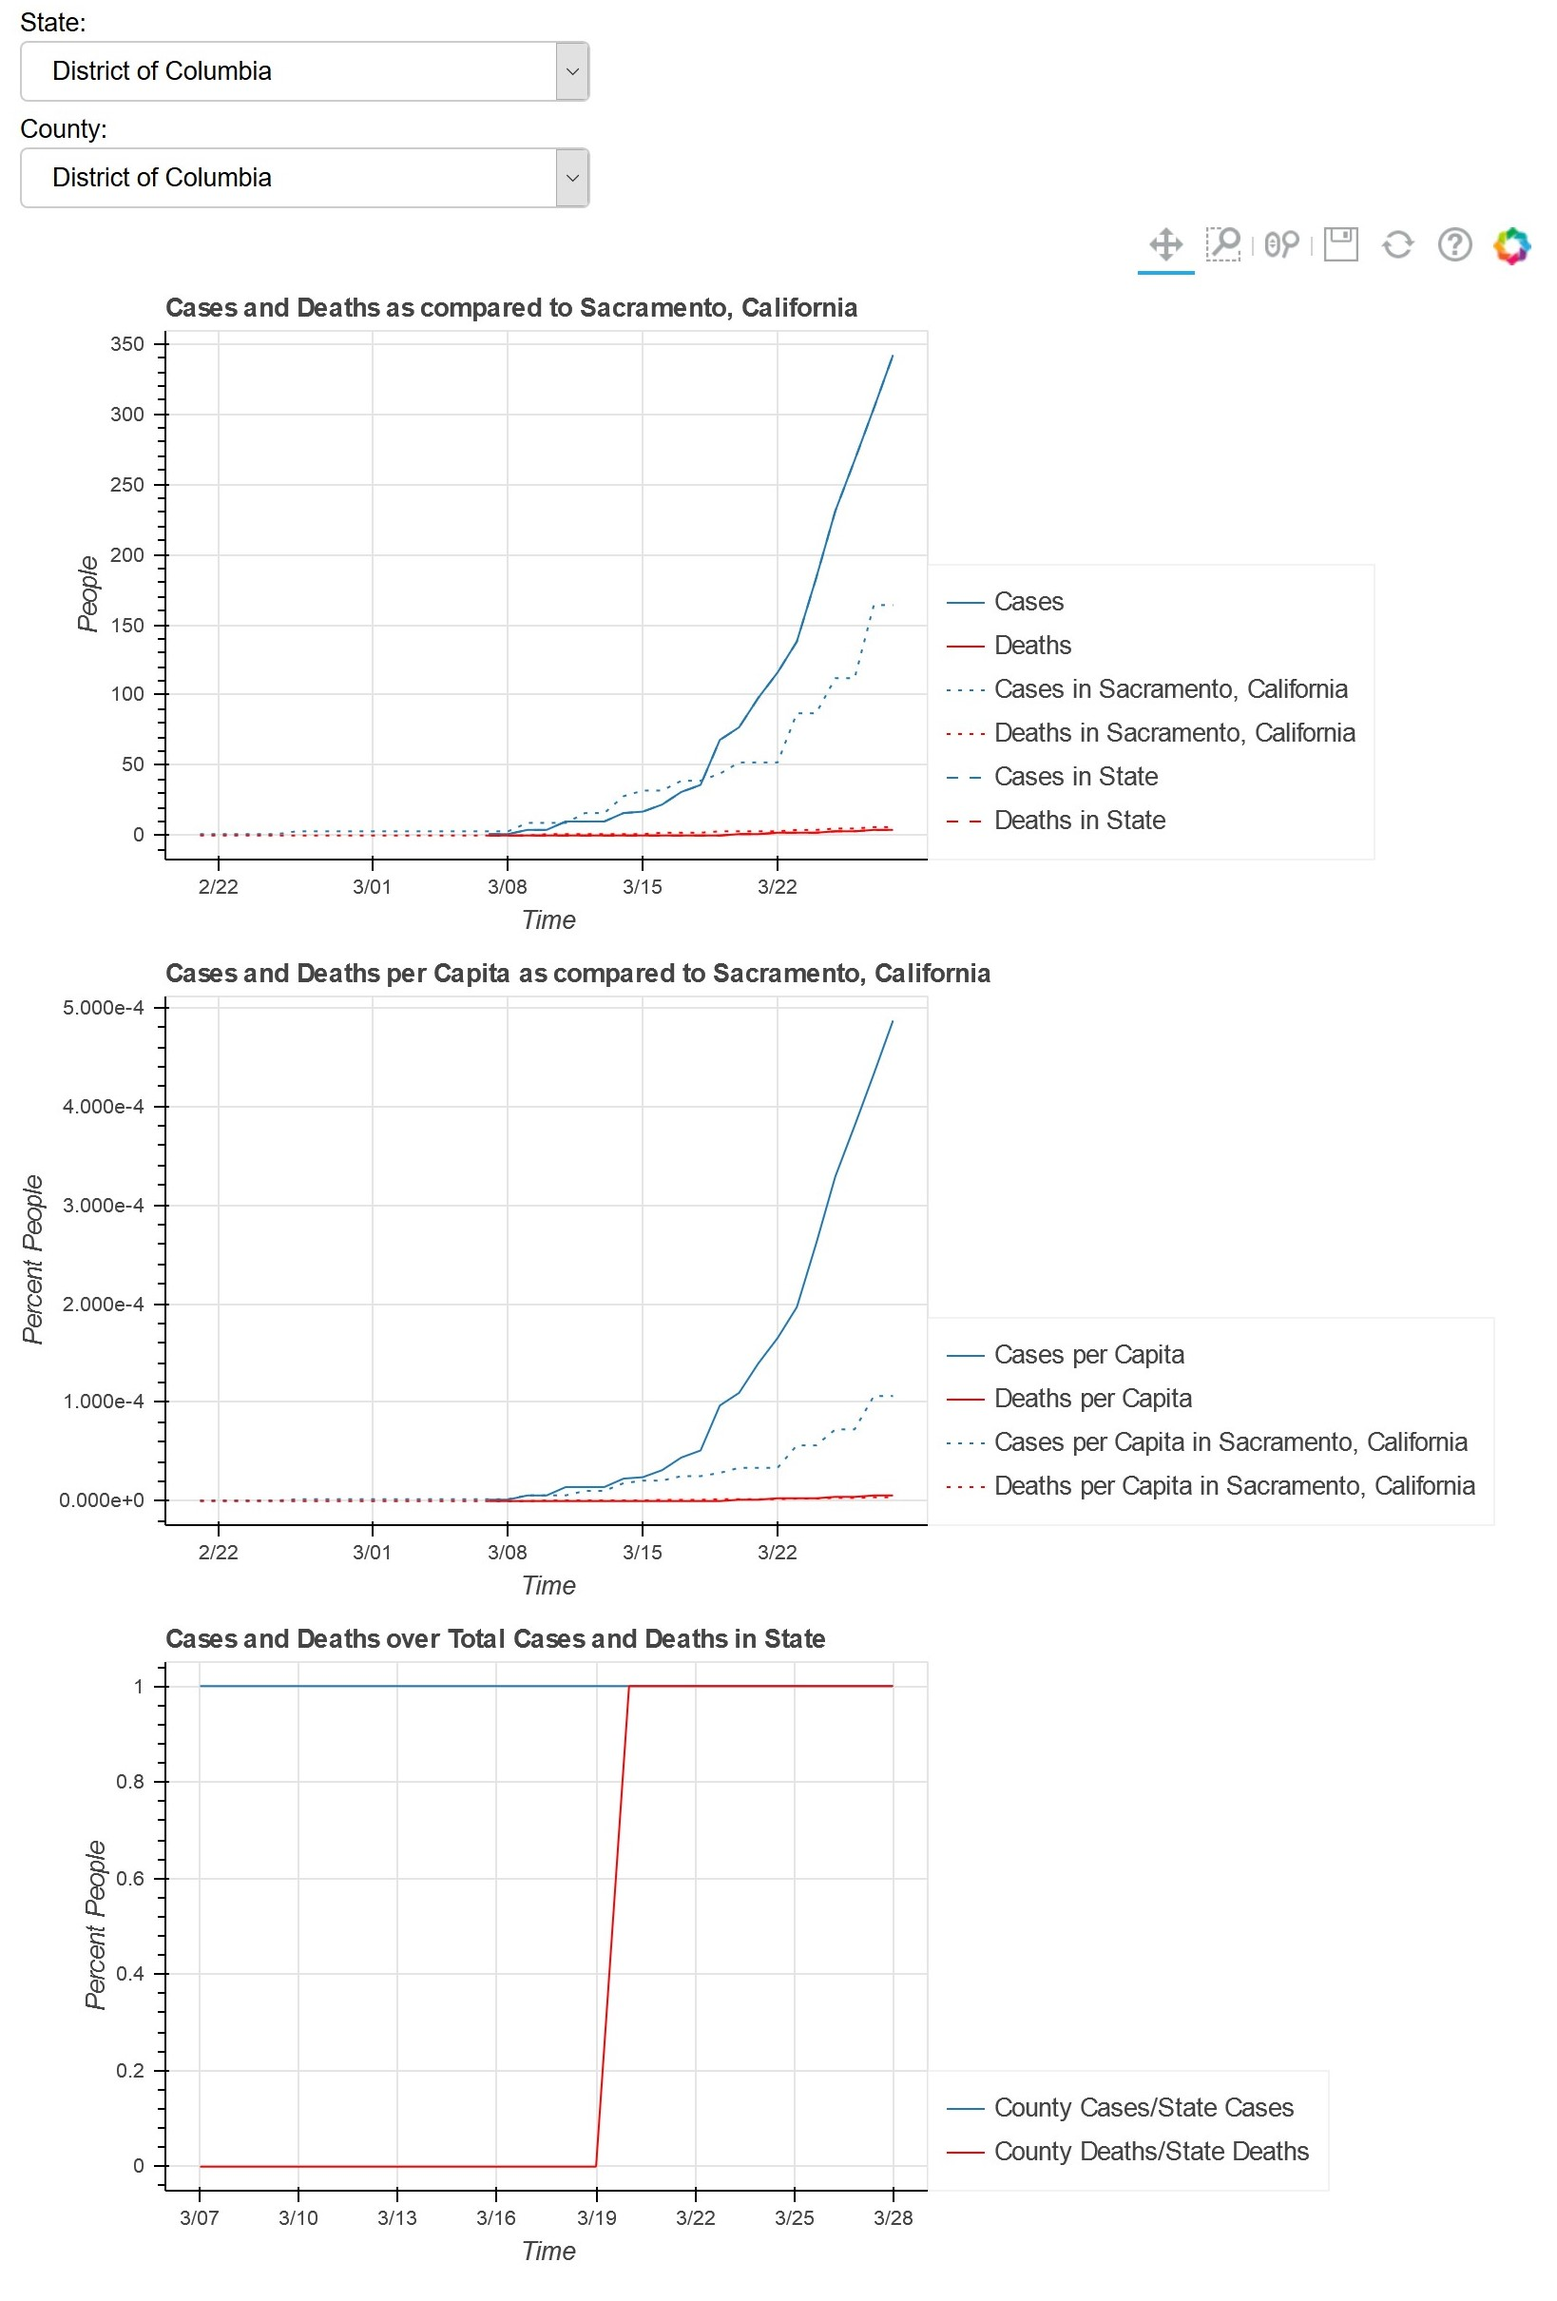
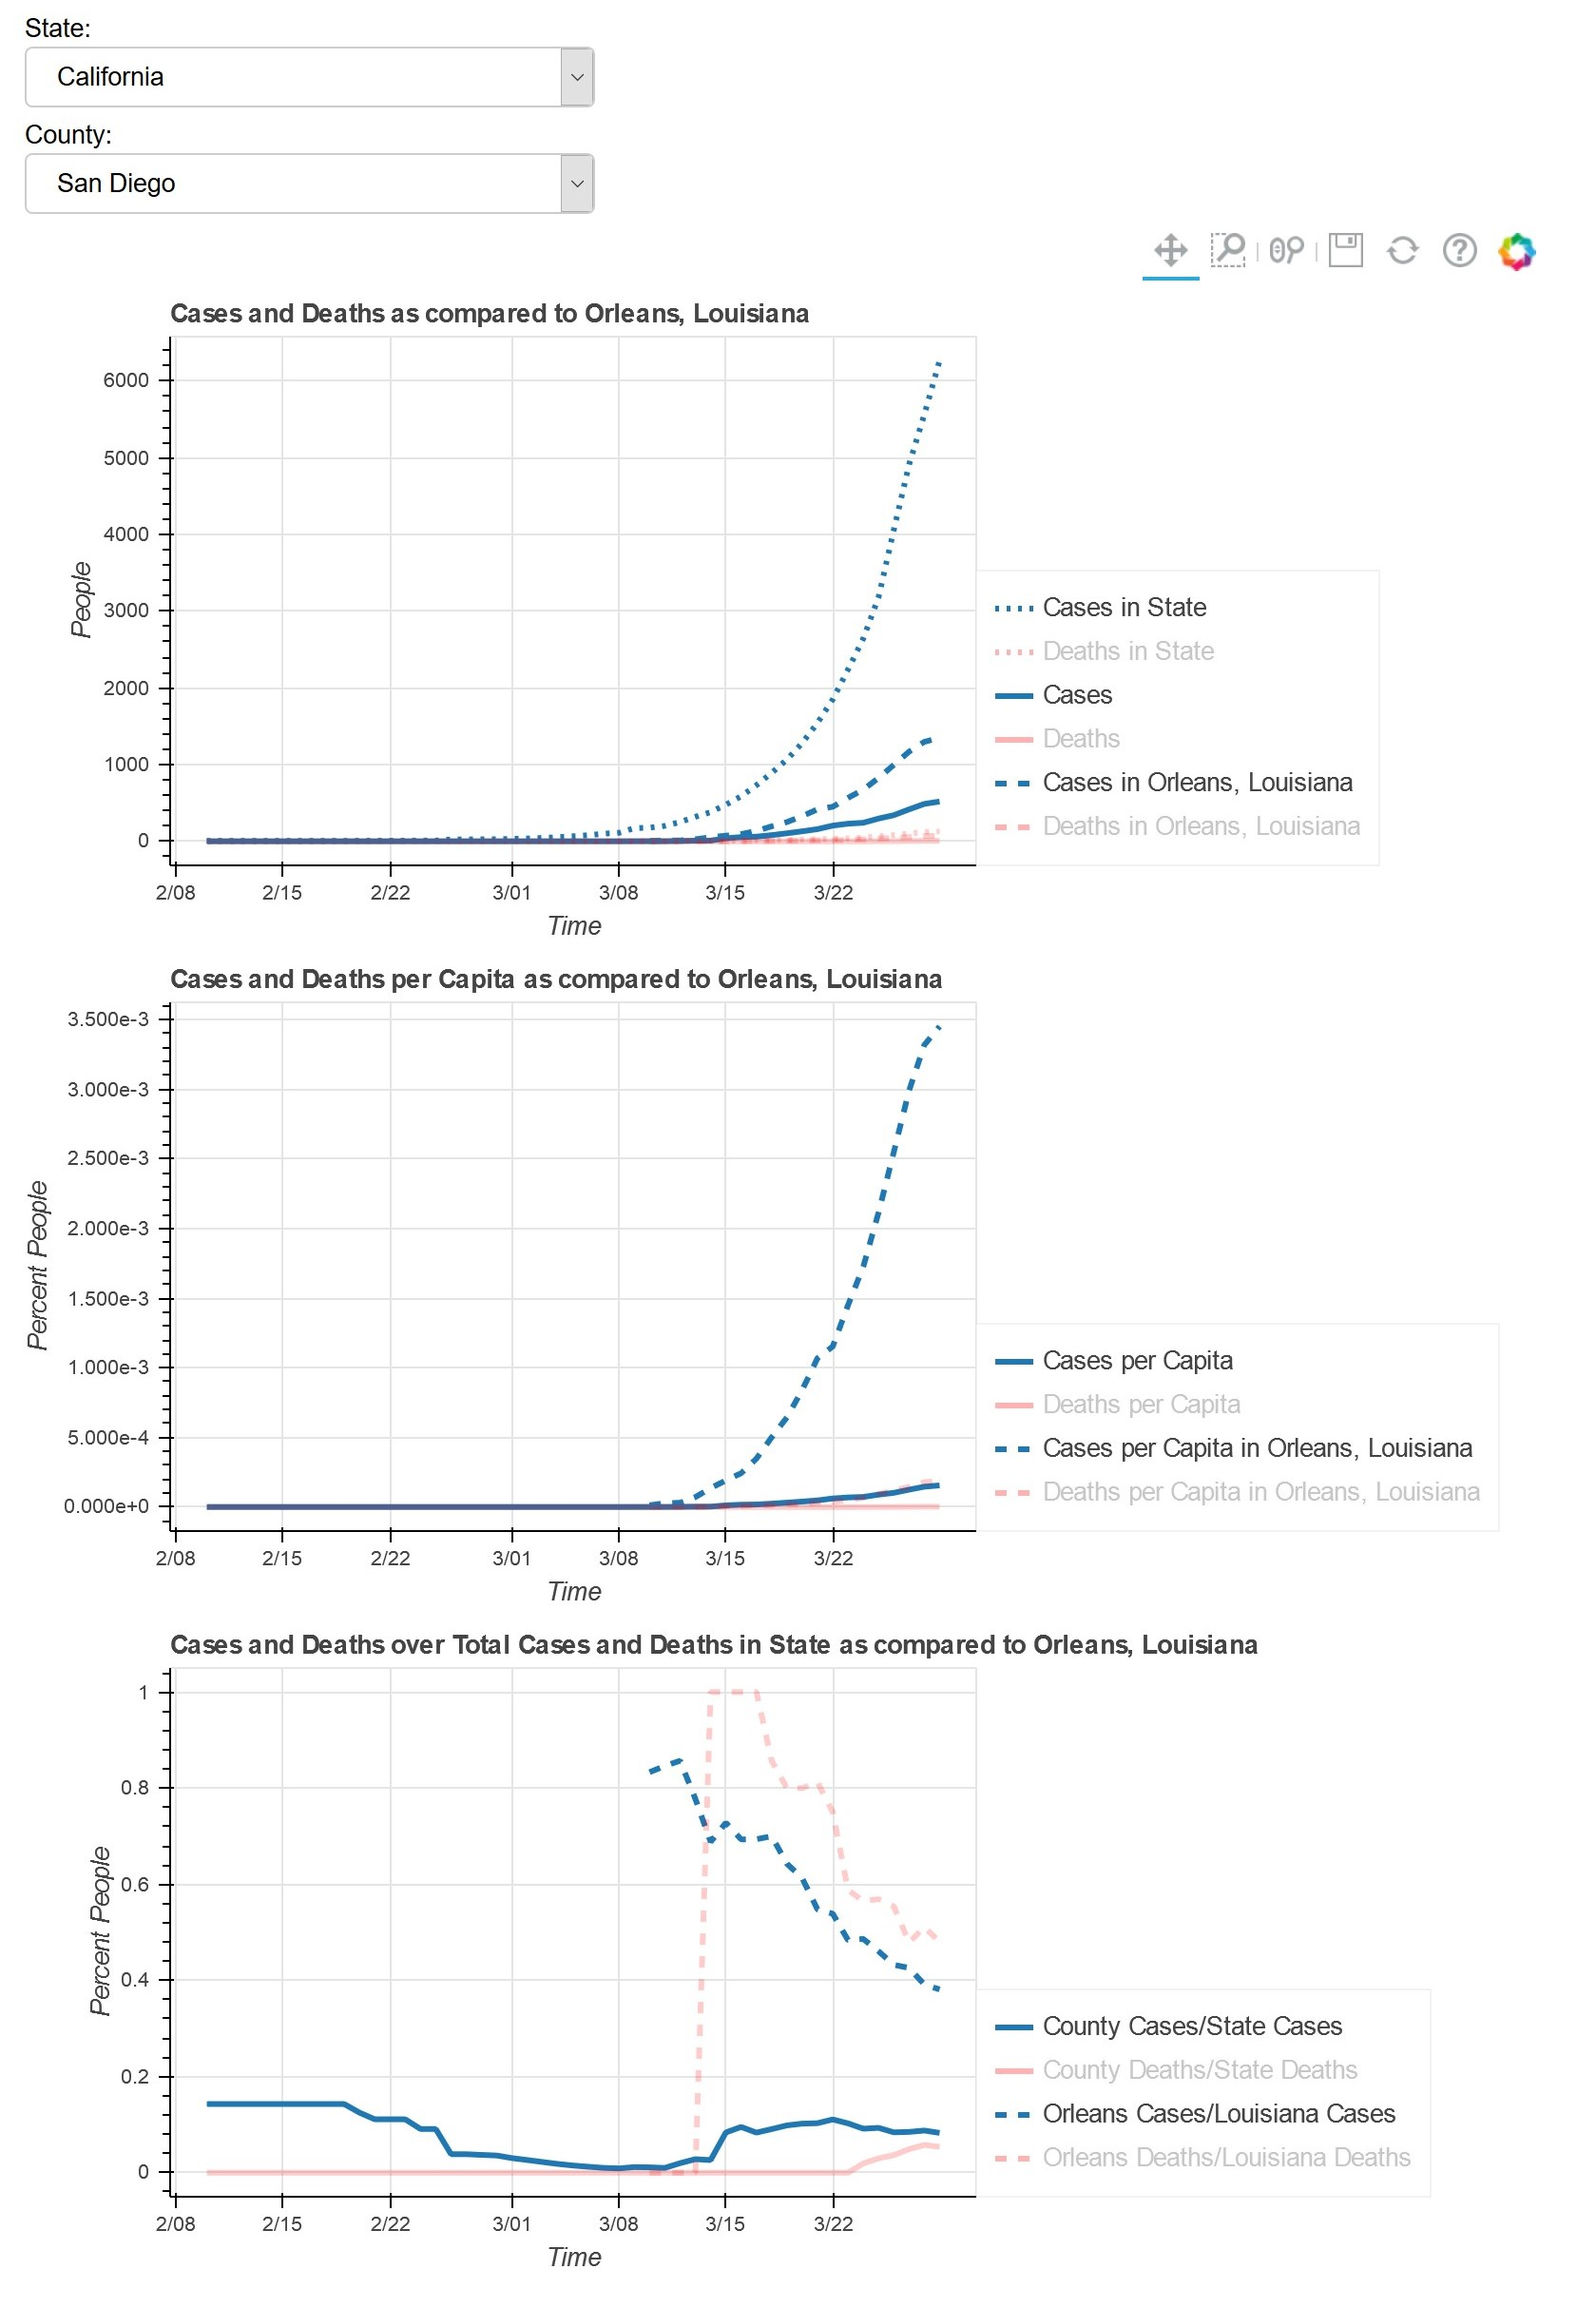
make dotted and dashed lines match same data throughout all graphs, rearrange order on legend 1, so state data is shown first

diff --git a/main.py b/main.py
@@ -24,10 +24,10 @@ def gen_figure_1():
   p1.yaxis.axis_label = 'People'
   r0 = p1.line('date', 'cases', source=source, line_width=line_width, muted_alpha=muted_alpha)
   r1 = p1.line('date', 'deaths', source=source, color="red", line_width=line_width, muted_alpha=muted_alpha)
-  r2 = p1.line('date', 'cases', source=source1, line_dash="dotted", line_width=line_width, muted_alpha=muted_alpha)
-  r3 = p1.line('date', 'deaths', source=source1, color="red", line_dash="dotted", line_width=line_width, muted_alpha=muted_alpha)
-  r4 = p1.line('date', 'cases_state', source=source, line_dash="dashed", line_width=line_width, muted_alpha=muted_alpha)
-  r5 = p1.line('date', 'deaths_state', source=source, color="red", line_dash="dashed", line_width=line_width, muted_alpha=muted_alpha)
+  r2 = p1.line('date', 'cases', source=source1, line_dash="dashed", line_width=line_width, muted_alpha=muted_alpha)
+  r3 = p1.line('date', 'deaths', source=source1, color="red", line_dash="dashed", line_width=line_width, muted_alpha=muted_alpha)
+  r4 = p1.line('date', 'cases_state', source=source, line_dash="dotted", line_width=line_width, muted_alpha=muted_alpha)
+  r5 = p1.line('date', 'deaths_state', source=source, color="red", line_dash="dotted", line_width=line_width, muted_alpha=muted_alpha)
 
 
 def gen_figure_2():
@@ -58,12 +58,12 @@ def gen_figure_3():
 def gen_legend_1():
   global legend1
   legend1 = Legend(items=[
+    ("Cases in State", [r4]),
+    ("Deaths in State", [r5]),
     ("Cases", [r0]),
     ("Deaths", [r1]),
     ("Cases in " + county_name + ", " + state_name, [r2]),
     ("Deaths in " + county_name + ", " + state_name, [r3]),
-    ("Cases in State", [r4]),
-    ("Deaths in State", [r5]),
   ], location=(0, 0))
   legend1.click_policy = click_policy
 
